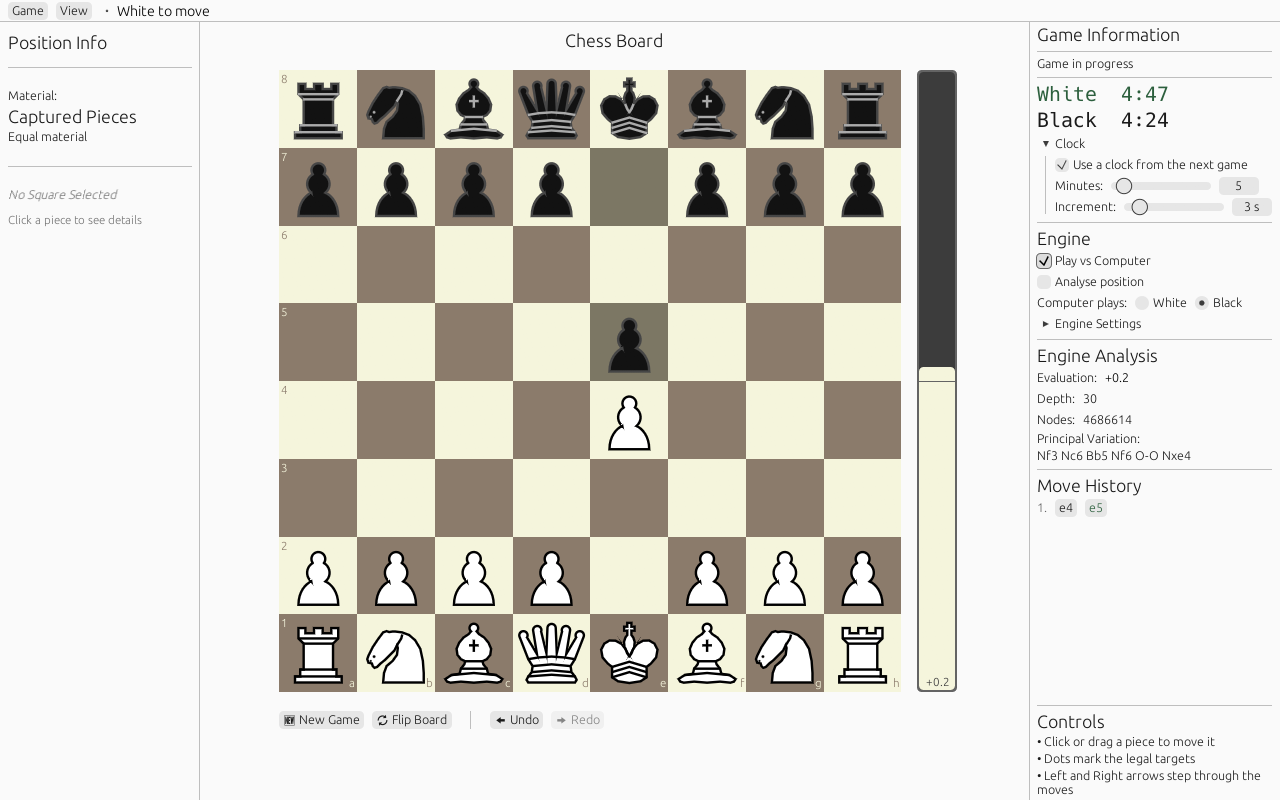
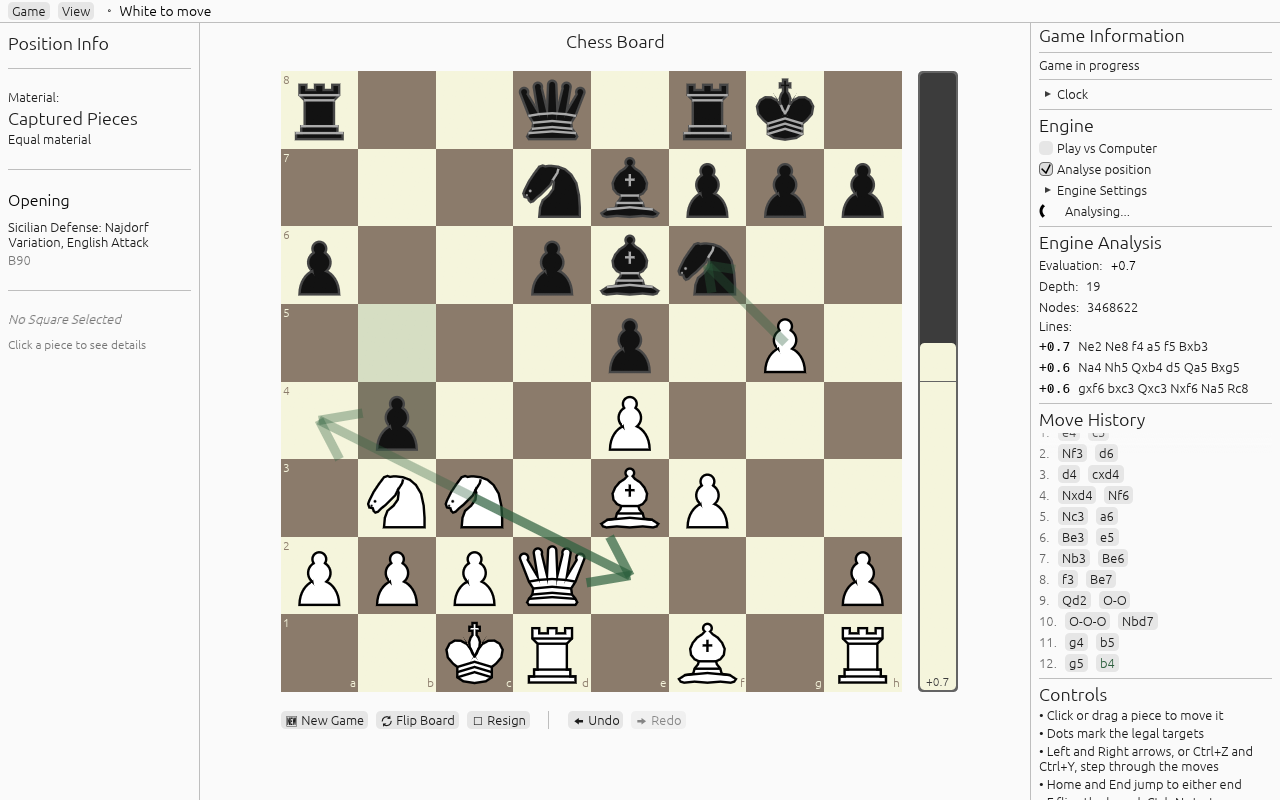
Show analysis in the README screenshot and record the ninth round

diff --git a/README.md b/README.md
@@ -5,7 +5,7 @@ Desktop chess GUI and terminal CLI in Rust. Plays against a locally installed
 validation come from the `chess` crate. The project contains no search engine
 of its own.
 
-![A game against Stockfish with the clock running](docs/screenshot.png)
+![Analysing a Najdorf with three engine lines, the opening named on the left](docs/screenshot.png)
 
 ## Prerequisites
 
@@ -48,8 +48,8 @@ The last one only checks that Stockfish answers over UCI.
 - Optional clock with minutes and increment; the engine then manages its own
   time, and a takeback gives the time back.
 - Copy the FEN or the PGN, set up a position from a FEN, load a PGN, or save
-  the game and open a saved one, under Game. Saved games are PGN files under
-  `$XDG_DATA_HOME/rust-chess-engine/games/`.
+  the game (Ctrl+S) and open a saved one, under Game. Saved games are PGN
+  files under `$XDG_DATA_HOME/rust-chess-engine/games/`.
 - "Analyse position" evaluates the position on screen and draws up to five
   engine lines as arrows, the best one boldest, in a game or while browsing
   the history.

diff --git a/CHANGELOG.md b/CHANGELOG.md
@@ -4,6 +4,15 @@ Newest first. Items refer to `docs/AUDIT_2026-09-09.md` where one exists.
 
 ## Unreleased
 
+### Ninth round
+
+- Stockfish's "No such option" and "Unknown command" replies fail the
+  command instead of vanishing behind its `readyok`, so a refused option
+  reaches the status panel.
+- Ctrl+S saves the game.
+- A test runs a clock past zero and checks the flag fall ends the game.
+- README screenshot shows analysis with three lines and the opening name.
+
 ### Eighth round
 
 - chess-core's own `Color`, `PieceType`, `Piece`, `Square` and `Move`, the
